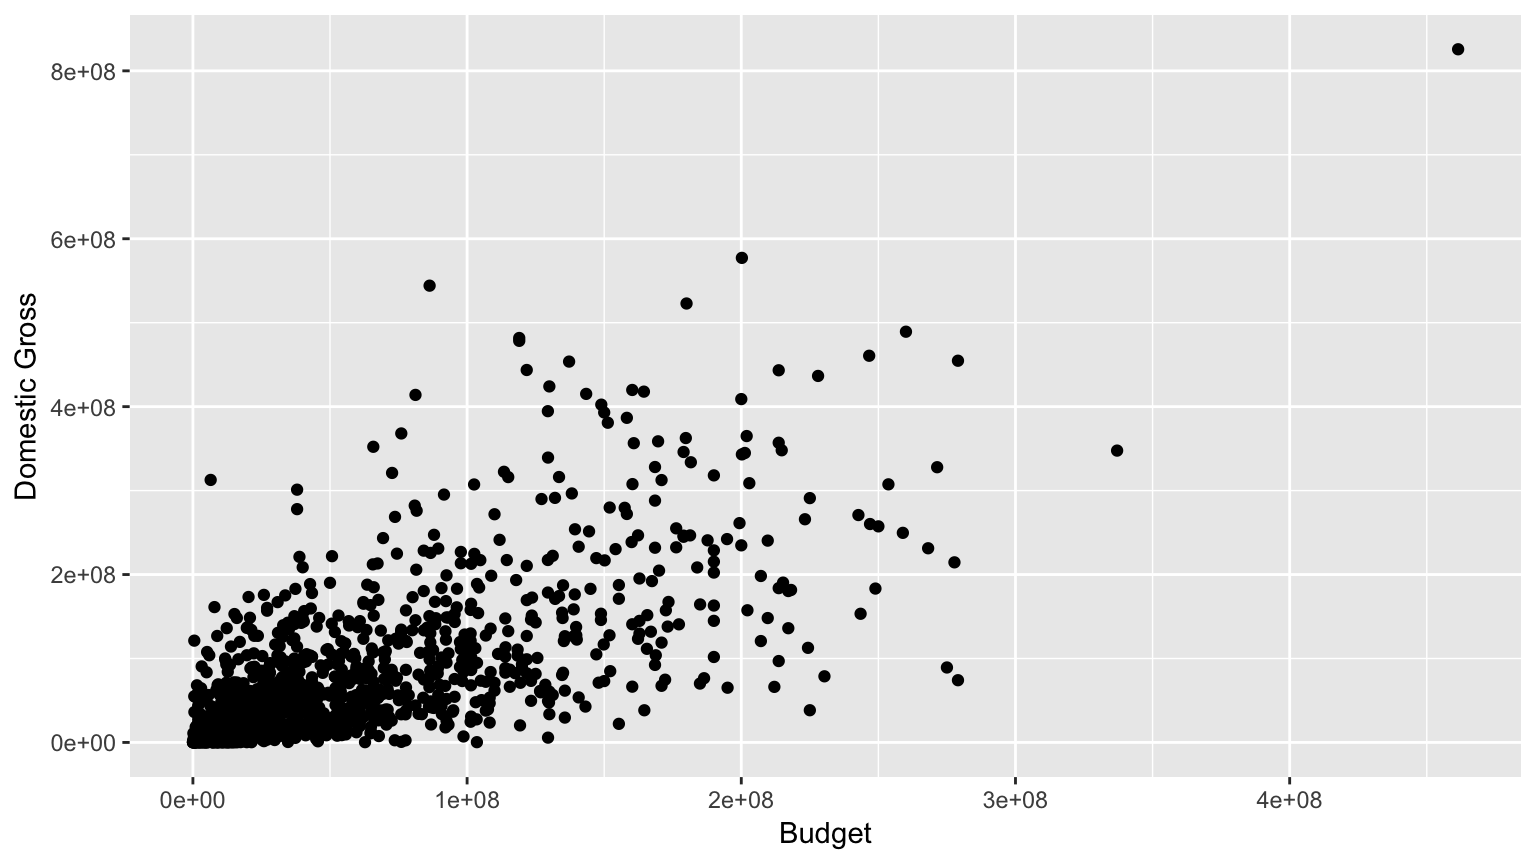
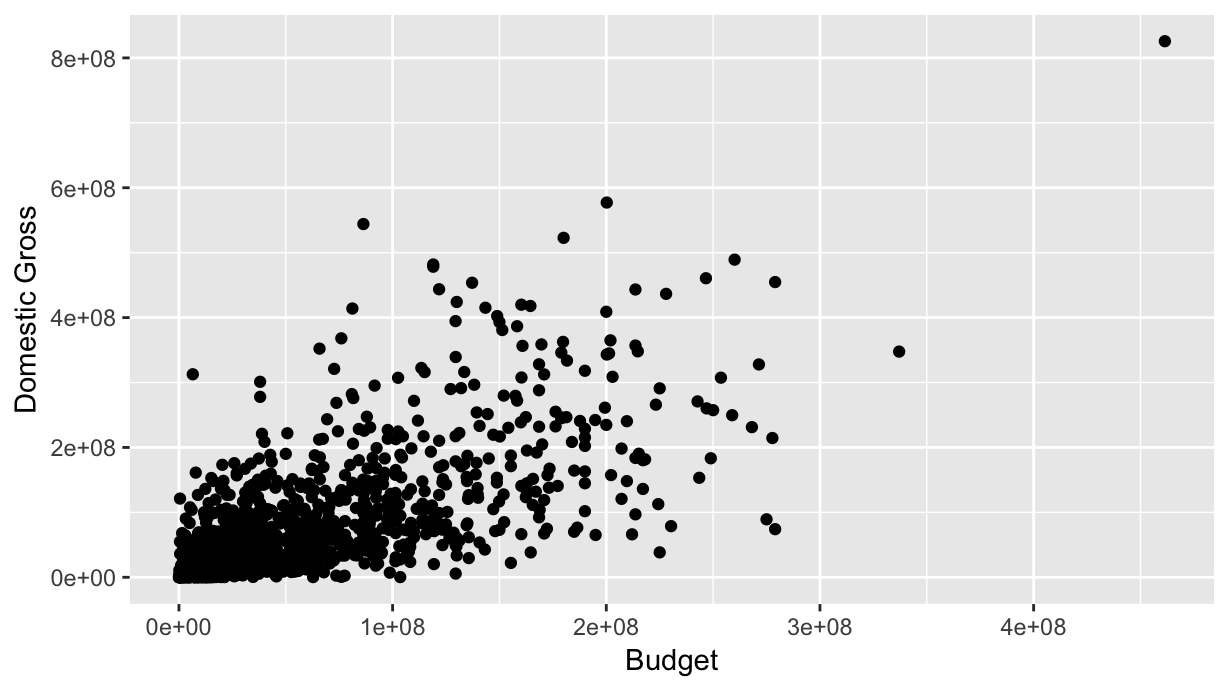
done 2.1

diff --git a/docs/index.html b/docs/index.html
@@ -361,7 +361,7 @@ h1{font-weight: 400;}
 <li><a href="https://rudeboybert.github.io/fivethirtyeight/"><code>fivethirtyeight</code></a>: Data from the articles on FiveThirtyEight</li>
 <li><a href="https://github.com/hadley/nycflights13"><code>nycflights13</code></a>: Info for all 336K domestic flights that left an NYC airport in 2013 (JFK, EWR, or LGA)</li>
 </ul></li>
-<li>AC students: Start networking! Have your name and LinkedIn profile appear on the <a href="https://www.amherst.edu/academiclife/departments/mathematics-statistics/alumni/alumni-links">Amherst website</a> by filling out this <a href="https://docs.google.com/forms/d/1LW1E50wXVGW3-I0949pvRnqrm7M8E5nfADQWlx1YCPc/edit">Google Form</a>. Recruiters pay 💵📉💲 to LinkedIn to be able to do targeted 🔍s of potential hires!</li>
+<li>AC students: Start networking! Have your name and LinkedIn profile appear on the <a href="https://www.amherst.edu/academiclife/departments/mathematics-statistics/alumni/alumni-links">Amherst website</a> by filling out this <a href="https://docs.google.com/forms/d/1LW1E50wXVGW3-I0949pvRnqrm7M8E5nfADQWlx1YCPc/edit">Google Form</a>. Recruiters pay 💵💹💱 to LinkedIn to be able to do targeted 🔍s of potential hires!</li>
 </ul>
 <p>Announcements:</p>
 <ul>
@@ -392,19 +392,19 @@ bechdel_2000 &lt;- bechdel %&gt;%
 ggplot(bechdel_2000, aes(x=budget_2013, y=domgross_2013)) +
   geom_point() +
   labs(x=&quot;Budget&quot;, y=&quot;Domestic Gross&quot;)</code></pre>
-<p><img src="index_files/figure-html/unnamed-chunk-3-1.png" width="768" /></p>
+<p><img src="index_files/figure-html/unnamed-chunk-3-1.png" width="614.4" /></p>
 <p>We see there is a right-skew to both the x and y-values. This is because we are comparing big budget Hollywood blockbusters with (likely) lower budget independent films. Hence, it’s really hard to see what’s going on at the lower-end of the budget scale. Let’s unskew both variables and compare not <em>absolute</em> differences, but rather, <em>relative</em> differences i.e. differences in “order of magnitude” using a <code>log10()</code> transformation:</p>
 <pre class="r"><code>ggplot(bechdel_2000, aes(x=log10(budget_2013), y=log10(domgross_2013))) +
   geom_point() +
   labs(x=&quot;log10(Budget)&quot;, y=&quot;log10(Domestic Gross)&quot;)</code></pre>
-<p><img src="index_files/figure-html/unnamed-chunk-4-1.png" width="768" /></p>
+<p><img src="index_files/figure-html/unnamed-chunk-4-1.png" width="614.4" /></p>
 <p>We can see a little better what’s going on at the lower end of the budget scale. However the values on the axes require a little thinking to process. For example at <span class="math inline">\(x=7\)</span>, this corresponds to movies with a budget of <span class="math inline">\(10^7 = 10,000,000\)</span> dollars. So instead, let’s <em>rescale</em> both axes so that they display the data in their original units.</p>
 <pre class="r"><code>ggplot(bechdel_2000, aes(x=budget_2013, y=domgross_2013)) +
   geom_point() +
   scale_x_log10() +
   scale_y_log10() +
   labs(x=&quot;Budget (log10-scale)&quot;, y=&quot;Domestic Gross (log10-scale)&quot;)</code></pre>
-<p><img src="index_files/figure-html/unnamed-chunk-5-1.png" width="768" /></p>
+<p><img src="index_files/figure-html/unnamed-chunk-5-1.png" width="614.4" /></p>
 <p>Note that the two plots are identical, but the values on the axes are different.</p>
 </div>
 <div id="local-regression-executive-summary-via-.gif" class="section level2">
@@ -414,6 +414,11 @@ ggplot(bechdel_2000, aes(x=budget_2013, y=domgross_2013)) +
 <div id="chalk-talk" class="section level2">
 <h2>Chalk talk</h2>
 <p>2.1 Local regression i.e. LOESS AKA LOWESS</p>
+<p>Corresponding book chapters</p>
+<ul>
+<li>ISLR: 7.6</li>
+<li>CASI: 19.8</li>
+</ul>
 </div>
 <div id="using-loess" class="section level2">
 <h2>Using <code>loess()</code></h2>
@@ -424,7 +429,7 @@ ggplot(bechdel_2000, aes(x=budget_2013, y=domgross_2013)) +
 </ul>
 <p>on 1000 randomly sampled flights whose (x,y) values aren’t missing. Commands:</p>
 <ul>
-<li>Fit a model: <code>loess(y~x, data)</code></li>
+<li>Fit a model: <code>loess(y~x, data)</code> (Note there is also a <code>lowess()</code> command, but AFAIK there is no convenient <code>predict()</code> function).</li>
 <li>Predict based on a model: <code>predict(model_loess, newdata)</code></li>
 </ul>
 <pre class="r"><code># Install this package:
@@ -432,8 +437,8 @@ library(tidyverse)
 library(nycflights13)
 library(broom)
 
-# Let&#39;s join flight and join it with weather data after setting the seed
-# value for the random number generator:
+# Let&#39;s join flight and join it with weather data after setting the seed value
+# for the random number generator to ensure we have &quot;replicable randomness&quot;
 set.seed(76)
 flights_sample &lt;- flights %&gt;% 
   left_join(weather, by=c(&quot;month&quot;, &quot;day&quot;, &quot;hour&quot;, &quot;origin&quot;)) %&gt;%
